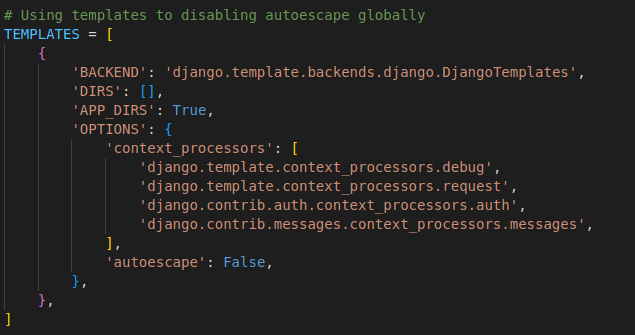
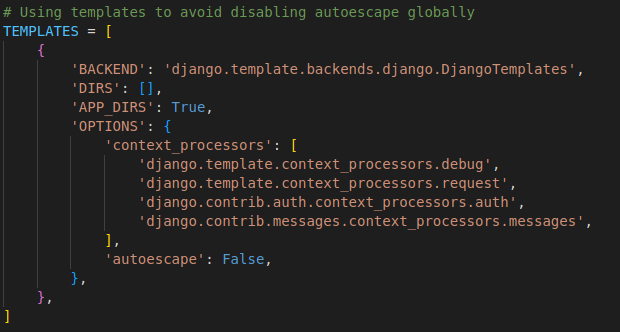
add chanegs

diff --git a/student_management_system/settings.py b/student_management_system/settings.py
@@ -59,7 +59,7 @@ MIDDLEWARE = [
 
 ROOT_URLCONF = 'student_management_system.urls'
 
-# Using templates to disabling autoescape globally
+# Using templates to avoid disabling autoescape globally
 TEMPLATES = [
     {
         'BACKEND': 'django.template.backends.django.DjangoTemplates',
